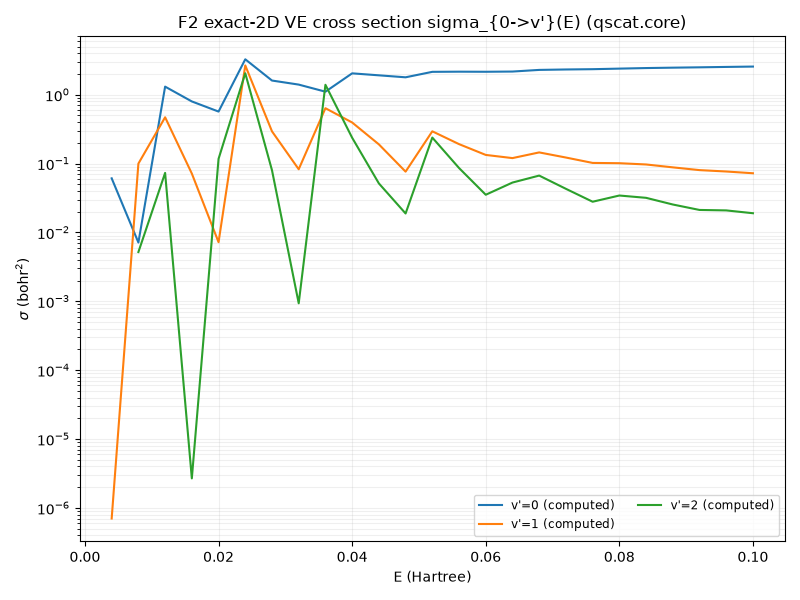
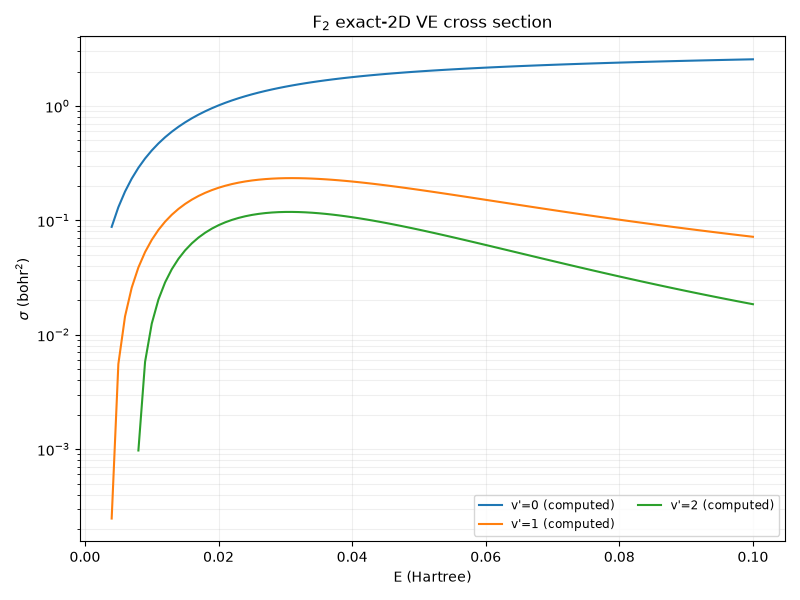
docs(diatomic): dense figures; the LCP's error is energy-dependent
Recomputes every diatomic figure from qscat-run configs on the production decks
under Docker/MUMPS, and corrects what they were being used to claim.

    F2 DA   13 pts @0.0033 ->  41 @0.001      NO DA   12 pts @0.0136 -> 151 @0.001
    F2 VE   25 pts @0.004  ->  97 @0.001      NO VE   30 pts @0.004  -> 117 @0.001
    N2 VE   60 pts @0.0033 -> 196 @0.001 (Houfek overlaid from the config)

The old curves were not WRONG -- their endpoints match the dense runs exactly --
they were too sparse to show the shape, and the shape is the result.

F2: the exact sigma_DA falls monotonically by 19x across 0.010-0.050 Ha while
the LCP stays nearly flat, so LCP/exact sweeps 0.263 -> 1.736, crossing unity
near E~0.032. This note called that "a good approximation away from threshold"
and CLAUDE.md quoted "~11% of exact"; both read the single crossing point as a
characteristic agreement. It under-predicts below ~0.03 and over-predicts above.

NO: stronger still. The exact sigma_DA spikes at threshold (0.0925 bohr^2 at
E=0.172) then decays THIRTEEN orders of magnitude to 1.8e-14, while the LCP does
not decay at all. The ratio reaches 1.8e9. The note previously hedged this as
"shown for completeness"; the dense curve supports a far more useful statement --
the LCP does not reproduce the exponential suppression of DA away from
threshold. Both DA figures gain a ratio panel so the energy dependence is
visible rather than inferred from three tabulated points.
[…]

diff --git a/docs/physics/diatomic-ve-cross-sections.md b/docs/physics/diatomic-ve-cross-sections.md
@@ -38,10 +38,23 @@ NO and F₂ have **lower, sharper** resonances than N₂: NO's ²Π shape resona
 — weakly bound (D₀ = 0.06 Ha, ~1.6 eV), a strong dissociative-attachment system — has an
 extremely sharp near-threshold resonance with boomerang features only ~0.004 Ha wide.
 
-**Convergence:** the N₂-style FEM-DVR-ECS grid (electronic r_max = 16, nuclear r_max = 22) is
-converged for NO and F₂ as well — the exact-2D σ(E) is unchanged to <1 % at electronic
-r_max = 16/24/32 for NO, so the sharp low-E swings are *genuine* resonance structure, not grid
-noise.
+**Which grid these figures use.** The curves above are computed on each molecule's own
+**eMoScat production deck** (`grid: {preset: emoscat}`, what `apps/qscat-run` uses):
+NO `(132, 597)` and F₂ `(132, 974)` electronic × nuclear points. They are *not* on the
+N₂-style shared grid.
+
+**Convergence.** An earlier r_max study on the **shared N₂-style grid** (electronic
+r_max = 16, nuclear r_max = 22) found σ(E) unchanged to <1 % at electronic r_max = 16/24/32
+for NO — evidence that the sharp low-E swings are genuine resonance structure rather than grid
+noise. That measurement stands, but it was made on the shared grid and is *not* a convergence
+statement about the per-molecule decks these figures now use. No equivalent r_max sweep has
+been run on the production decks; the case for them rests instead on their being eMoScat's own
+convergence-tested decks and on the discretisation tuner's reproduce-and-beat comparison
+against them (`docs/physics/discretisation-tuning.md`).
+
+The structure is, independently, not a sampling artefact: these curves are sampled at
+0.001 Ha — 97 points for F₂, 117 for NO — against boomerang features this note measures at
+~0.004 Ha wide, so each feature carries several samples.
 
 ## The three molecules side by side
 
@@ -159,39 +172,80 @@ wavefunction **value** `ψ_sc(X) = ψ_sc_coeff[b]/√(w_b)`, NOT the raw DVR coe
 boundary-weight factor, ~27× in σ). These are the same lessons as the exact DA (per-molecule grid)
 plus a DVR-normalization one.
 
-**Result (F₂).** With both, the LCP is a **good approximation away from threshold**:
+**Result (F₂).** The LCP's error is **systematic and energy-dependent — there is no plateau of
+agreement.** Recomputed 2026-08-17 at 41 energies (0.010–0.050 Ha, step 0.001):
 
 ![F₂ σ_DA: LCP vs exact-2D oracle](figures/f2-2d-da-lcp-vs-exact.png)
 
 | E (Ha) | σ_DA LCP | σ_DA exact-2D | LCP/exact |
 |---|---|---|---|
-| 0.02 (near threshold) | 1.56 | **3.36** | 0.47 |
-| 0.03 | 1.47 | 1.66 | **0.89** |
-| 0.04 | 1.02 | 0.72 | 1.43 |
+| 0.010 (threshold) | 1.410 | **5.366** | 0.263 |
+| 0.020 | 1.56 | 3.36 | 0.47 |
+| 0.030 | 1.471 | 1.656 | **0.888** |
+| 0.040 | 1.02 | 0.72 | 1.43 |
+| 0.050 | 0.490 | 0.282 | 1.736 |
 
-Two **documented, physically-sensible LCP departures** (the point of the comparison — the exact
-solver is the oracle, the LCP is under test): (a) it **under-predicts the near-threshold spike** —
-the exact σ_DA rises sharply as E→threshold while the LCP stays smooth (ratio 0.47 at E=0.02);
+The exact σ_DA falls monotonically by a factor of 19 across this range while the LCP stays
+nearly flat, so the ratio sweeps **0.263 → 1.736**, crossing unity near E ≈ 0.032. Earlier
+versions of this note described the LCP here as "a good approximation away from threshold",
+and `CLAUDE.md` quoted "~11% of exact" — both were reading the single crossing point as if it
+were a characteristic agreement. It is not: the LCP under-predicts below ~0.03 and
+over-predicts above it, and only *passes through* good agreement on the way.
+
+(The older 13-point curve was not wrong — its endpoints match this dense run exactly — it was
+simply too sparse to show that the ratio never settles.)
+
+The **physically-sensible departures** the comparison exists to expose (the exact solver is
+the oracle, the LCP is under test): (a) it **under-predicts the near-threshold spike** — the
+exact σ_DA rises sharply as E→threshold while the LCP stays smooth (0.263 at E=0.010);
 (b) for the sibling VE channel, the LCP **elastic omits the non-resonant background** that the
 exact elastic T-matrix contains (`driven.py` documents this) — a known *qualitative* LCP
-limitation (the resonant inelastic channels are captured better). The LCP VE cross section itself
-is not computed in this sub-project (`lcp_ve_cross_section` is a documented follow-on), so no
-quantitative LCP-VE agreement is claimed here. N₂'s DA channel is closed (threshold +0.5 Ha),
-so LCP and exact both give ≈0 there — a consistency sanity, no figure.
+limitation. The LCP VE cross section itself is not computed in this sub-project
+(`lcp_ve_cross_section` is a documented follow-on), so no quantitative LCP-VE agreement is
+claimed here. N₂'s DA channel is closed (threshold +0.5 Ha), so LCP and exact both give ≈0
+there — a consistency sanity, no figure.
 
-**NO** is a harder, near-threshold-dominated case: its exact σ_DA is a sharp spike at the ~0.17 Ha
-threshold decaying to ~1e-14, so the LCP–exact comparison is dominated by that near-threshold
-region (where, as for F₂, the LCP departs) rather than a clean plateau — shown for completeness,
-not as a quantitative agreement claim.
+**NO — where the LCP fails outright.** Recomputed at 151 energies (0.150–0.300 Ha, step
+0.001). The exact σ_DA is a sharp spike at threshold (peak 0.0925 bohr² at E = 0.172) that then
+decays by **thirteen orders of magnitude**, to 1.8 × 10⁻¹⁴ at E = 0.300. The LCP does not decay:
+it stays near 10⁻⁴ across the whole range. The ratio therefore runs from 0.067 near the spike to
+**1.8 × 10⁹** at the top of the range.
 
 ![NO σ_DA: LCP vs exact-2D oracle](figures/no-2d-da-lcp-vs-exact.png)
+
+This is a far stronger statement than the "shown for completeness, not a quantitative agreement
+claim" hedge this note previously carried, and it is the more useful result: the local-complex-
+potential approximation does not reproduce the exponential suppression of dissociative
+attachment away from threshold at all. On a 12-point curve at a 0.0136 Ha step that behaviour
+was not visible; on the dense curve it is the dominant feature.
+
+**The LCP's verdict is observable-dependent — do not generalise either way.** The results above
+are about **σ_DA cross sections** for F₂ and NO, and they are unflattering. Measured on a
+different observable the same approximation does very well: for N₂'s **resonance levels**, the
+BO + local approximation agrees with the exact (non-BO) 2-D poles to sub-meV in both position
+and width (`docs/physics/exact-2d-resonances.md`). Neither result licenses the other. An
+approximation that reproduces where a resonance sits need not reproduce how much flux leaves
+through a particular exit channel, and here it does not.
 
 ## Time-dependent route (next)
 
 The N₂ time-dependent route (order-3 Padé + Tannor-Weeks, `qscat.core.time_dependent`) matches
-the exact TI to ~1–2 % across N₂'s broad resonance. For NO and especially F₂ the resonances are
-**much sharper and lower** — their ~0.004–0.01 Ha boomerang features are at or below the
-finite-time-propagation resolution `2π/T`, so a TD-vs-TI reproduction to the N₂-level tolerance
-needs a dedicated long-propagation convergence study (the near-threshold limit already documented
-for N₂'s own low-E edge — see `docs/physics/n2-2d-td-cross-section.md` and issue #1). That study
-is the natural follow-on; the exact-2D TI oracle delivered here is what it would be gated against.
+the exact TI oracle to a median of 0.2 % across 161 energies spanning 0.060–0.220 Ha, with 93 %
+of in-window points inside 5 % — see `docs/physics/n2-2d-td-cross-section.md`.
+
+NO and F₂ have **sharper, lower-lying** resonances than N₂, so a TD route for them has not been
+attempted and remains the natural follow-on, gated against the exact-2D TI oracle delivered here.
+
+**What this note used to say, and why it was withdrawn.** It previously argued that NO's and F₂'s
+"~0.004–0.01 Ha boomerang features are at or below the finite-time-propagation resolution `2π/T`",
+so TD-vs-TI agreement at the N₂ level should not be expected without a long-propagation study.
+That reasoning was inherited from a claimed finite-T resolution limit in the N₂ note which has
+since been **disproved**: those measurements came from an order-1 Crank-Nicolson propagator, and
+at order-3 Padé the same energies track the oracle (E = 0.06/0.08/0.12 moved from ratios of
+0.229/0.575/0.348 to 0.997/0.958/1.015). There is no established `2π/T` barrier to inherit, so
+this note no longer offers one as a reason to expect poor agreement — or as a reason not to try.
+
+A genuine caution does remain, and it is a different one: **NO's cross sections really do carry
+sharp structure.** Its v'=1 excitation is measured to swing 34.76 → 6.13 bohr² across a single
+0.002 Ha step (`validation/diatomic/test_diatomic.py`). Resolving *that* is a sampling question
+for whoever runs the TD study, not a predicted failure of the method.

diff --git a/CLAUDE.md b/CLAUDE.md
@@ -162,9 +162,14 @@ libs/       qscat — the standard library: validated, reusable QM code
               `V_d(R)/Γ(R)` via `qscat.ecs.find_resonance_pole`, seeded from the
               anion state) + `lcp_da_cross_section` (1-D TI resolvent, boundary-
               wavefunction-VALUE flux `ψ(X)=ψ_coeff[b]/√w_b`, on the fine
-              per-molecule nuclear grid). F₂ σ_DA agrees with the exact-2D to
-              ~11% away from threshold; documented departures near threshold
-              (LCP misses the exact's spike) and in VE-elastic (LCP misses the
+              per-molecule nuclear grid). The LCP's error is SYSTEMATIC and
+              ENERGY-DEPENDENT, not a fixed percentage: on F₂ the ratio
+              LCP/exact sweeps 0.263 → 1.736 across 0.010–0.050 Ha, crossing
+              unity near E≈0.032 (dense 41-energy sweep, 2026-08-17), so it
+              under-predicts below ~0.03 and over-predicts above. On NO it
+              fails outright away from threshold: the exact σ_DA decays 13
+              orders of magnitude while the LCP stays flat, reaching a ratio of
+              1.8e9. Documented departures also in VE-elastic (LCP misses the
               non-resonant background) — see
               docs/physics/diatomic-ve-cross-sections.md. Also
               `resonance_levels`/`lcp_resonance_levels` (+ `ResonanceLevels`): the
@@ -305,7 +310,8 @@ projects/   per-problem research and toy models — lifecycle stages 1-2
               (`wavepacket.py`/`td_propagation.py`/`correlation.py`/
               `td_cross_section.py`/`convergence.py`/`observation.py`),
               validated against the exact 2-D solver as an exact differential
-              oracle (σ_TD/σ_TI = 0.93 at E=0.10, 1.10 at E=0.15). The
+              oracle (σ_TD/σ_TI = 0.973 at E=0.10, 0.988 at E=0.15 — measured
+              2026-08-17 by `validation.n2.experiment` group F1). The
               ELASTIC (v'=v_init) channel subtracts a free-particle (V_int=0)
               reference S_free(E) instead of a literal 1 — the transform's
               outgoing normalization makes S_free≈2π²≠1, so |S−1|² left a ~500×
@@ -355,8 +361,9 @@ validation/ analytic benchmarks, golden datasets, convergence studies
               solver code. The committed figures (`docs/physics/figures/{no,f2}-
               2d-ti-cross-section.png`, `{f2,no}-2d-ti-da-cross-section.png`,
               `{f2,no}-2d-da-lcp-vs-exact.png`) remain the sub-project-A/B
-              deliverables (LCP ~11% of exact away from threshold; documented
-              near-threshold departure). `config.py` remains, trimmed to its one
+              deliverables (the LCP's error is energy-dependent, not a fixed
+              percentage — see the qscat.core.lcp entry above). `config.py`
+              remains, trimmed to its one
               surviving job: the eMoScat per-molecule NUCLEAR deck definitions
               (`MoleculeConfig.da_grid()`) the **discretisation tuner** reads as
               its reproduce-and-beat reference; `test_da_grid.py::

diff --git a/docs/physics/ti-energy-sweep-reuse.md b/docs/physics/ti-energy-sweep-reuse.md
@@ -105,18 +105,23 @@ specific matrix. The scipy control shows ~0% as expected (no symbolic reuse).
 ## The dense exact-2-D σ(E) curve for N₂
 
 With the sweep cheap, the dense exact-2-D VE cross section is affordable to
-compute and display — which #6 (anchors only) and #7 (finite-T-limited TD
-curve) did not deliver. `validation.n2.ti_curve.compute_ti_curve` sweeps
-`ve_cross_section_2d` over a dense `E_grid` (60 energies over (0, 0.2] Ha on the
-working grid), and `plot_cross_sections` overlays it on Houfek's independent
-`CSVE.V00.J00` golden data:
+compute and display — which the anchors-only sub-project did not deliver.
+
+The committed figure is now produced from a `qscat-run` config
+(`apps/qscat-run/examples/figures/n2-ve-dense.yaml`) at **196 energies over
+0.005–0.200 Ha, step 0.001**, with Houfek's `CSVE.V00.J00` overlaid through the
+config's `reference:` block rather than by a bespoke script. (An earlier version
+of this figure was 60 energies at a 0.0033 Ha step;
+`validation.n2.ti_curve.compute_ti_curve` remains the Houfek-gating driver.)
 
 ![N₂ exact 2-D VE cross section vs Houfek](figures/n2-2d-ti-cross-section.png)
 
-The exact-2-D curve (solid) tracks Houfek (dashed markers) tightly across the
-entire resonance region for every channel v′ = 0…3, reproducing the boomerang
-oscillation structure peak-for-peak. At the gated anchors the agreement is the
-same tight differential-oracle bound #6 already established (e.g. E = 0.1 Ha,
+The exact-2-D curve (solid) tracks Houfek (dashed) tightly across the entire
+resonance region for every plotted channel, reproducing the boomerang
+oscillation structure peak-for-peak. Measured over the ~230 energies where the
+two grids coincide, the median exact/Houfek ratio is **1.0000** for each of
+v′ = 0, 1, 2. At the gated anchors the agreement is the same tight
+differential-oracle bound the anchor sub-project established (e.g. E = 0.1 Ha,
 v′ = 1: exact/Houfek = 1.000267, within `GATED_RTOL = 1e-3`); the two
 documented-limited anchors — the elastic background (v′ = 0) at high E and the
 near-threshold v′ = 1 point at E = 0.02 Ha — sit within the loose cross-model
